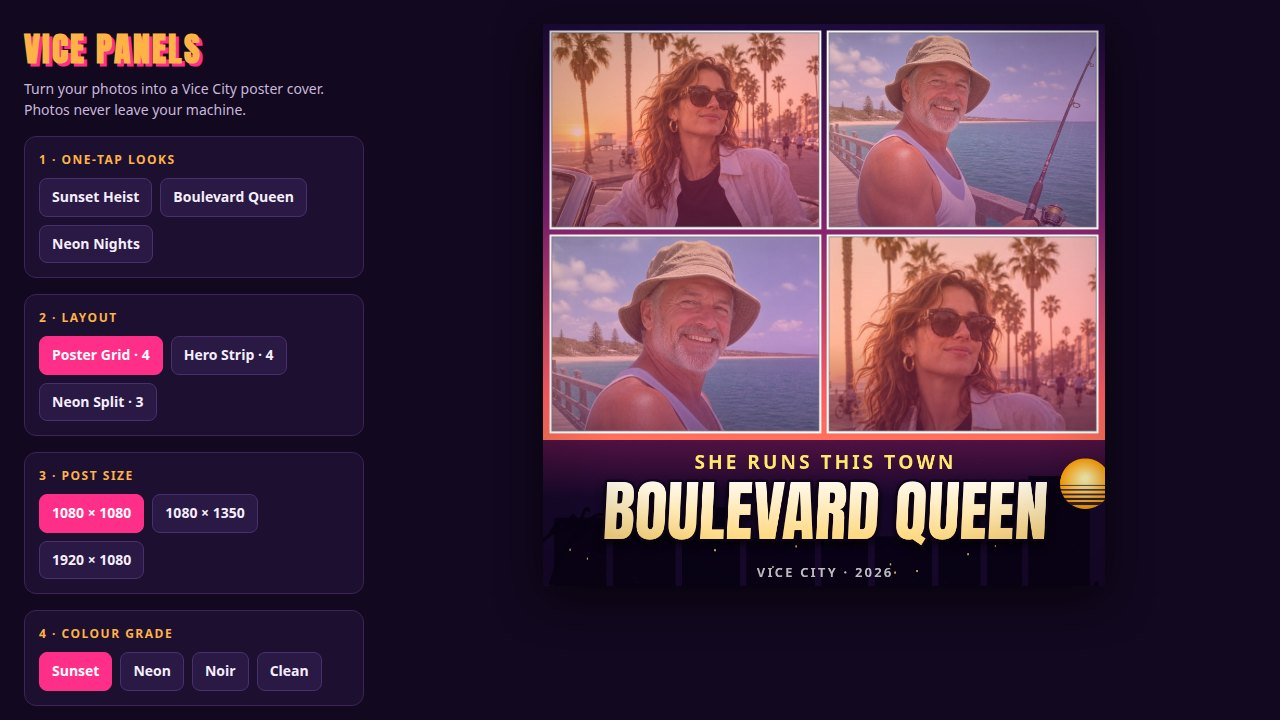
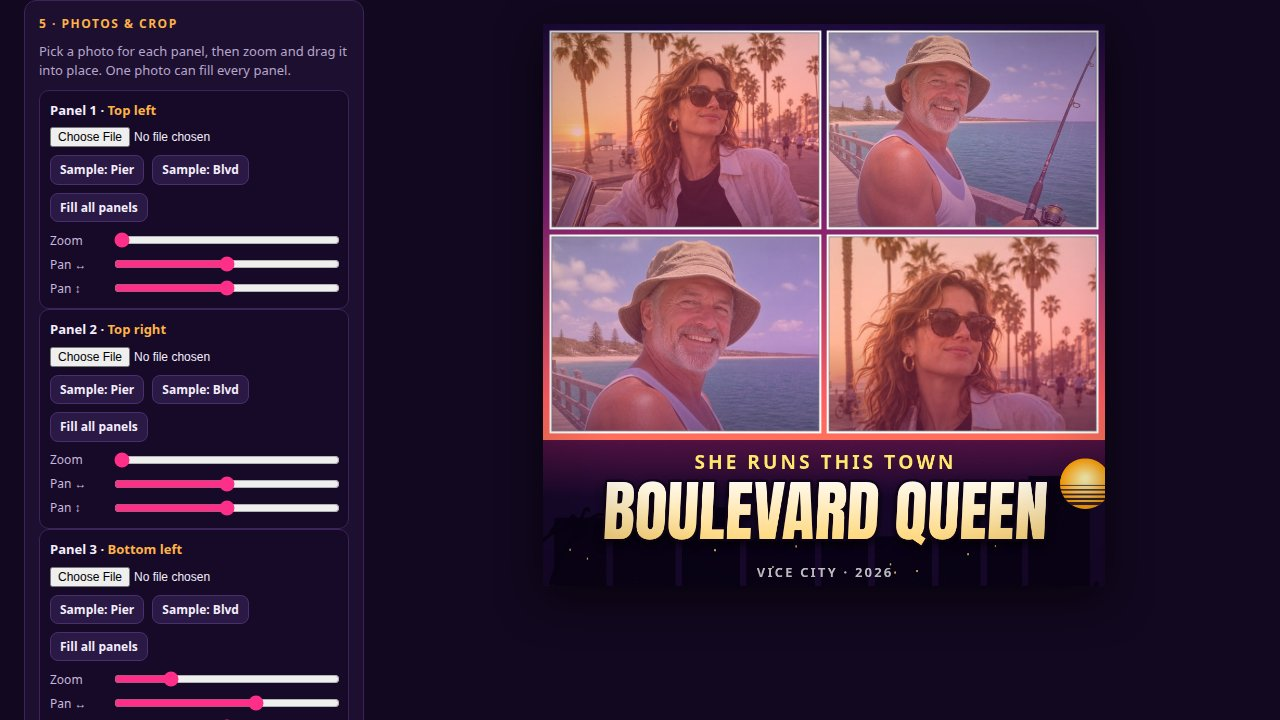
M1+M3: sharp hero cover-fill, editor shot shows Photos & crop
M1: strip hero now renders cover-fill with anchor-top (cover flag in
layoutPanels, blur-backdrop path skipped for it) instead of a contained
photo on blurred bands; shot framing pans the hero to oy=-50 so the
face reads full-frame in the ultra-wide band. Re-rendered 1-cover.jpg.
M3: editor shot scrolls the Photos & crop group into view, so panel
cards with Zoom / Pan sliders are visible in frame. Re-rendered
2-editor.jpg. 3/4-cover.jpg untouched.

Changed region(s): [[0.0, 0.0, 0.2812, 1.0]]

diff --git a/app/src/shots.js b/app/src/shots.js
@@ -18,7 +18,7 @@ export async function runShot(shot, query, api) {
   // Give repeated photos visibly different framings, so no two panels look cloned.
   // anchorTop keeps heads in frame on the wide/short panels.
   const framings = layout === 'strip'
-    ? [{ zoom: 1, ox: 0, oy: 0, anchorTop: true }, { zoom: 1.3, ox: 12, oy: 0, anchorTop: true }, { zoom: 1.3, ox: -12, oy: 0, anchorTop: true }, { zoom: 1, ox: 0, oy: 0, anchorTop: true }]
+    ? [{ zoom: 1, ox: 0, oy: -50, anchorTop: true }, { zoom: 1.3, ox: 12, oy: 0, anchorTop: true }, { zoom: 1.3, ox: -12, oy: 0, anchorTop: true }, { zoom: 1, ox: 0, oy: 0, anchorTop: true }]
     : [{ zoom: 1, ox: 0, oy: 0, anchorTop: true }, { zoom: 1, ox: 0, oy: 0, anchorTop: true }, { zoom: 1.35, ox: 14, oy: 0, anchorTop: true }, { zoom: 1.35, ox: -14, oy: 0, anchorTop: true }];
   state.panels.forEach((p, i) => Object.assign(p, framings[i]));
   // Reflect the chosen layout/grade/size in the control buttons.
@@ -26,5 +26,11 @@ export async function runShot(shot, query, api) {
     document.querySelectorAll(`#${id} button`).forEach((x) => x.classList.toggle('on', x.dataset[key] === state[key]));
   }
   await redraw();
+  if (shot === 'editor') {
+    // Scroll the "Photos & crop" group into view, so a panel card and its
+    // crop controls are visible in the 1280x720 editor shot (they sit below
+    // the fold otherwise). The preview stays put: it is position: sticky.
+    document.getElementById('panels').closest('.group').scrollIntoView();
+  }
   requestAnimationFrame(() => requestAnimationFrame(() => { window.__shotReady = true; }));
 }

diff --git a/app/src/cover.js b/app/src/cover.js
@@ -21,7 +21,9 @@ export function layoutPanels(layout, w, h) {
     const heroH = areaH * 0.58, rowY = y0 + heroH + gw;
     const cw = (x1 - x0 - 2 * gw) / 3;
     return [
-      { x: x0, y: y0, w: x1 - x0, h: heroH, contain: true },
+      // Hero: cover-fill (sharp photo edge to edge) with anchor-top, so the
+      // ultra-wide band is never padded with blurred backdrop bands.
+      { x: x0, y: y0, w: x1 - x0, h: heroH, cover: true },
       { x: x0, y: rowY, w: cw, h: y1 - rowY },
       { x: x0 + cw + gw, y: rowY, w: cw, h: y1 - rowY },
       { x: x0 + 2 * (cw + gw), y: rowY, w: cw, h: y1 - rowY },
@@ -137,9 +139,10 @@ function drawPhotoPanel(ctx, rect, panel, grade) {
     const ox = ((panel.ox || 0) / 100) * w;
     const oy = ((panel.oy || 0) / 100) * h;
     const ratio = (iw / ih) / (w / h);
-    if (rect.contain || ratio > 4 || ratio < 0.25) {
-      // Ultra-wide hero from a square photo: blurred cover-fill as a backdrop
-      // with the whole photo contained, so nobody's head is cropped off.
+    if (!rect.cover && (rect.contain || ratio > 4 || ratio < 0.25)) {
+      // Contained photo on a blurred cover-fill backdrop, so nobody's head is
+      // cropped off. Panels flagged cover (the strip hero) skip this and use
+      // sharp cover-fill with anchor-top instead.
       const cover = Math.max(w / iw, h / ih) * zoom;
       ctx.save();
       ctx.filter = 'blur(24px) brightness(0.6) saturate(1.3)';
